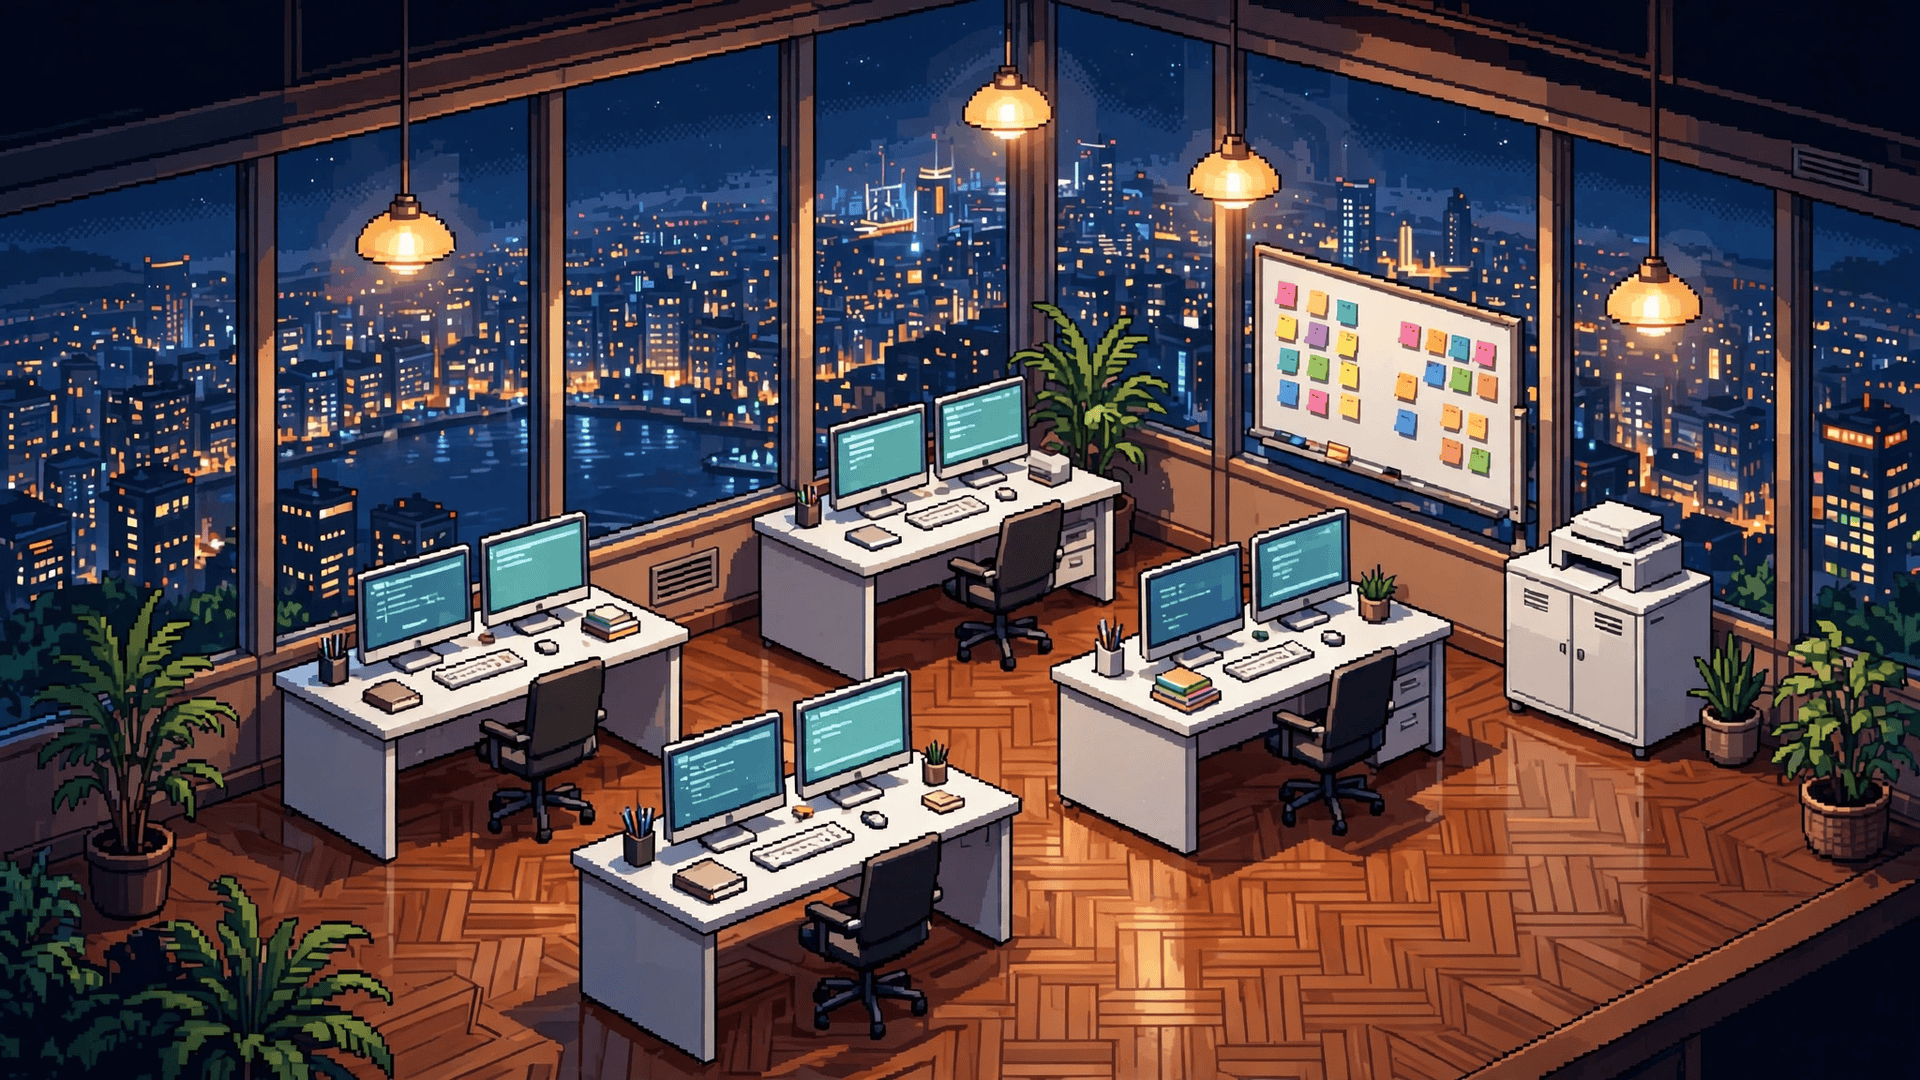
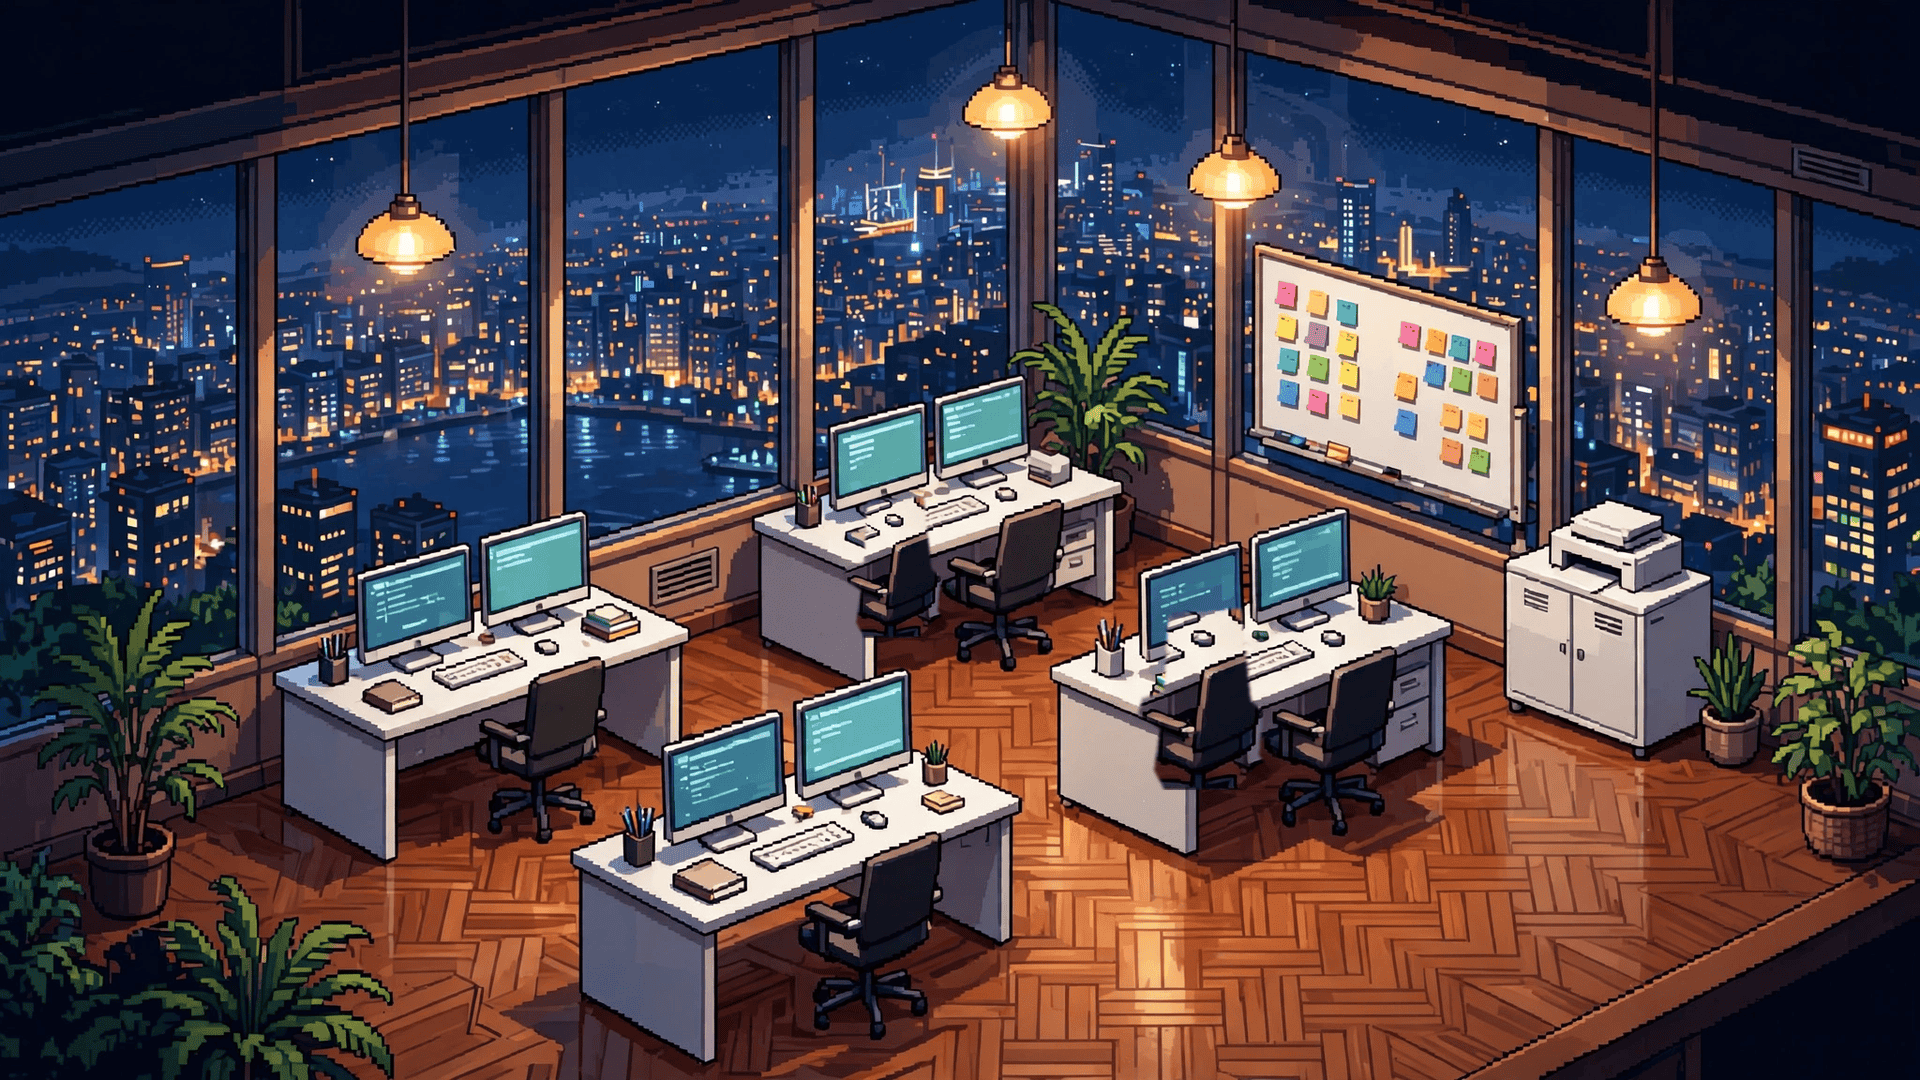
Eliie-Main: semua 6 karakter duduk DI ATAS kursi (tambah 2 kursi di bg + posisi butt-on-seat terverifikasi komposit)

Changed region(s): [[0.5938, 0.55, 0.6562, 0.7333], [0.4375, 0.4583, 0.5, 0.6111]]

diff --git a/index.html b/index.html
@@ -345,7 +345,7 @@ function loop(t){
    ============================================================ */
 const SPOTS = {
   office:{
-    desks:[ {x:.271,y:.709},{x:.529,y:.603},{x:.443,y:.926},{x:.711,y:.751} ], // sit (butt on chair seats)
+    desks:[ {x:.299,y:.708},{x:.536,y:.560},{x:.469,y:.560},{x:.674,y:.685},{x:.630,y:.681},{x:.458,y:.833} ], // sit: butt ON chair seats (6 chairs, verified via composite)
     extra:[ {x:.38,y:.84},{x:.63,y:.82} ],                              // idle+typing
     meet:[ {x:.50,y:.70} ],
   },
@@ -397,10 +397,10 @@ function actWork(){
   chainWalk([
     {id:'ty',    ...S.desks[0], pose:'sit', say:'⌨ gas kerja!', saySecs:3},
     {id:'eliie', ...S.desks[1], pose:'sit', say:'⌨ siap sayang 🥰', saySecs:3},
-    {id:'luna',  ...S.desks[2], pose:'sit', say:'⌨ fokus…', saySecs:3},
+    {id:'luna',  ...S.desks[5], pose:'sit', say:'⌨ fokus…', saySecs:3},
     {id:'nana',  ...S.desks[3], pose:'sit', say:'⌨ gaskeun 🔥', saySecs:3},
-    {id:'mimi',  ...S.extra[0], dir:'back', say:'⌨ desain dulu~', saySecs:3},
-    {id:'yuki',  ...S.extra[1], dir:'back', say:'⌨ rapi-rapi data', saySecs:3},
+    {id:'mimi',  ...S.desks[2], pose:'sit', say:'⌨ desain dulu~', saySecs:3},
+    {id:'yuki',  ...S.desks[4], pose:'sit', say:'⌨ rapi-rapi data', saySecs:3},
   ], ()=>{ addLog('✅ Semua sudah di posisi kerja.'); toast('💼 Semua lagi kerja!'); });
 }
 function actMeet(){
